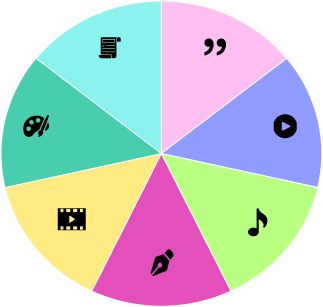
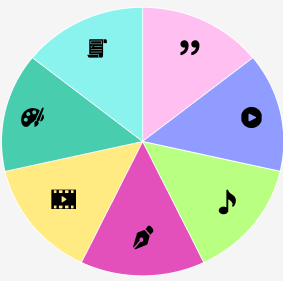
wheel v2

diff --git a/app/javascript/controllers/wheel_controller.js b/app/javascript/controllers/wheel_controller.js
@@ -10,12 +10,12 @@ export default class extends Controller {
     //  this.img.onload = this.roll.bind(this);
     this.img.src = this.imageValue;
     this.img.onload = this.drawImg.bind(this)
-    console.log(this.ctx);
-    console.log(this.img);
+    // console.log(this.ctx);
+    // console.log(this.img);
   }
 
   drawImg() {
-    this.ctx.drawImage(this.img, -5, -5, 150, 150);
+    this.ctx.drawImage(this.img, 0, 0, 250, 250);
   }
 
   run () {
@@ -23,9 +23,9 @@ export default class extends Controller {
     const n = Number(count.innerText)
     this.ctx.clearRect(0, 0, this.canvasTarget.width, this.canvasTarget.height);
     const delta = 200 / n * 360* 3 * Math.PI / 180;
-    this.ctx.translate(70, 70);
+    this.ctx.translate(125, 125);
     this.ctx.rotate(delta);
-    this.ctx.drawImage(this.img, -75, -75, 150, 150);
+    this.ctx.drawImage(this.img, -125, -125, 250, 250);
     // this.ctx.fillRect(0,0,30,30);
     this.ctx.setTransform(1, 0, 0, 1, 0, 0);
     count.innerText = n + 1

diff --git a/app/assets/stylesheets/components/_wheel.scss b/app/assets/stylesheets/components/_wheel.scss
@@ -1,3 +1,20 @@
 #canvas{
-  padding-left: 50px;
+  display: block;
+  margin: auto;
+  margin-bottom: 4rem;
+}
+.wheel-bg {
+  width: 250px;
+  height: 250px;
+  background-image: asset-url('wheelthree.png');
+  background-size: contain;
+  background-repeat: no-repeat;
+  margin: auto;
+}
+.container-center {
+  display: flex;
+  justify-content: center;
+  flex-direction: column;
+  width: 100%;
+  height: 80vh;
 }
